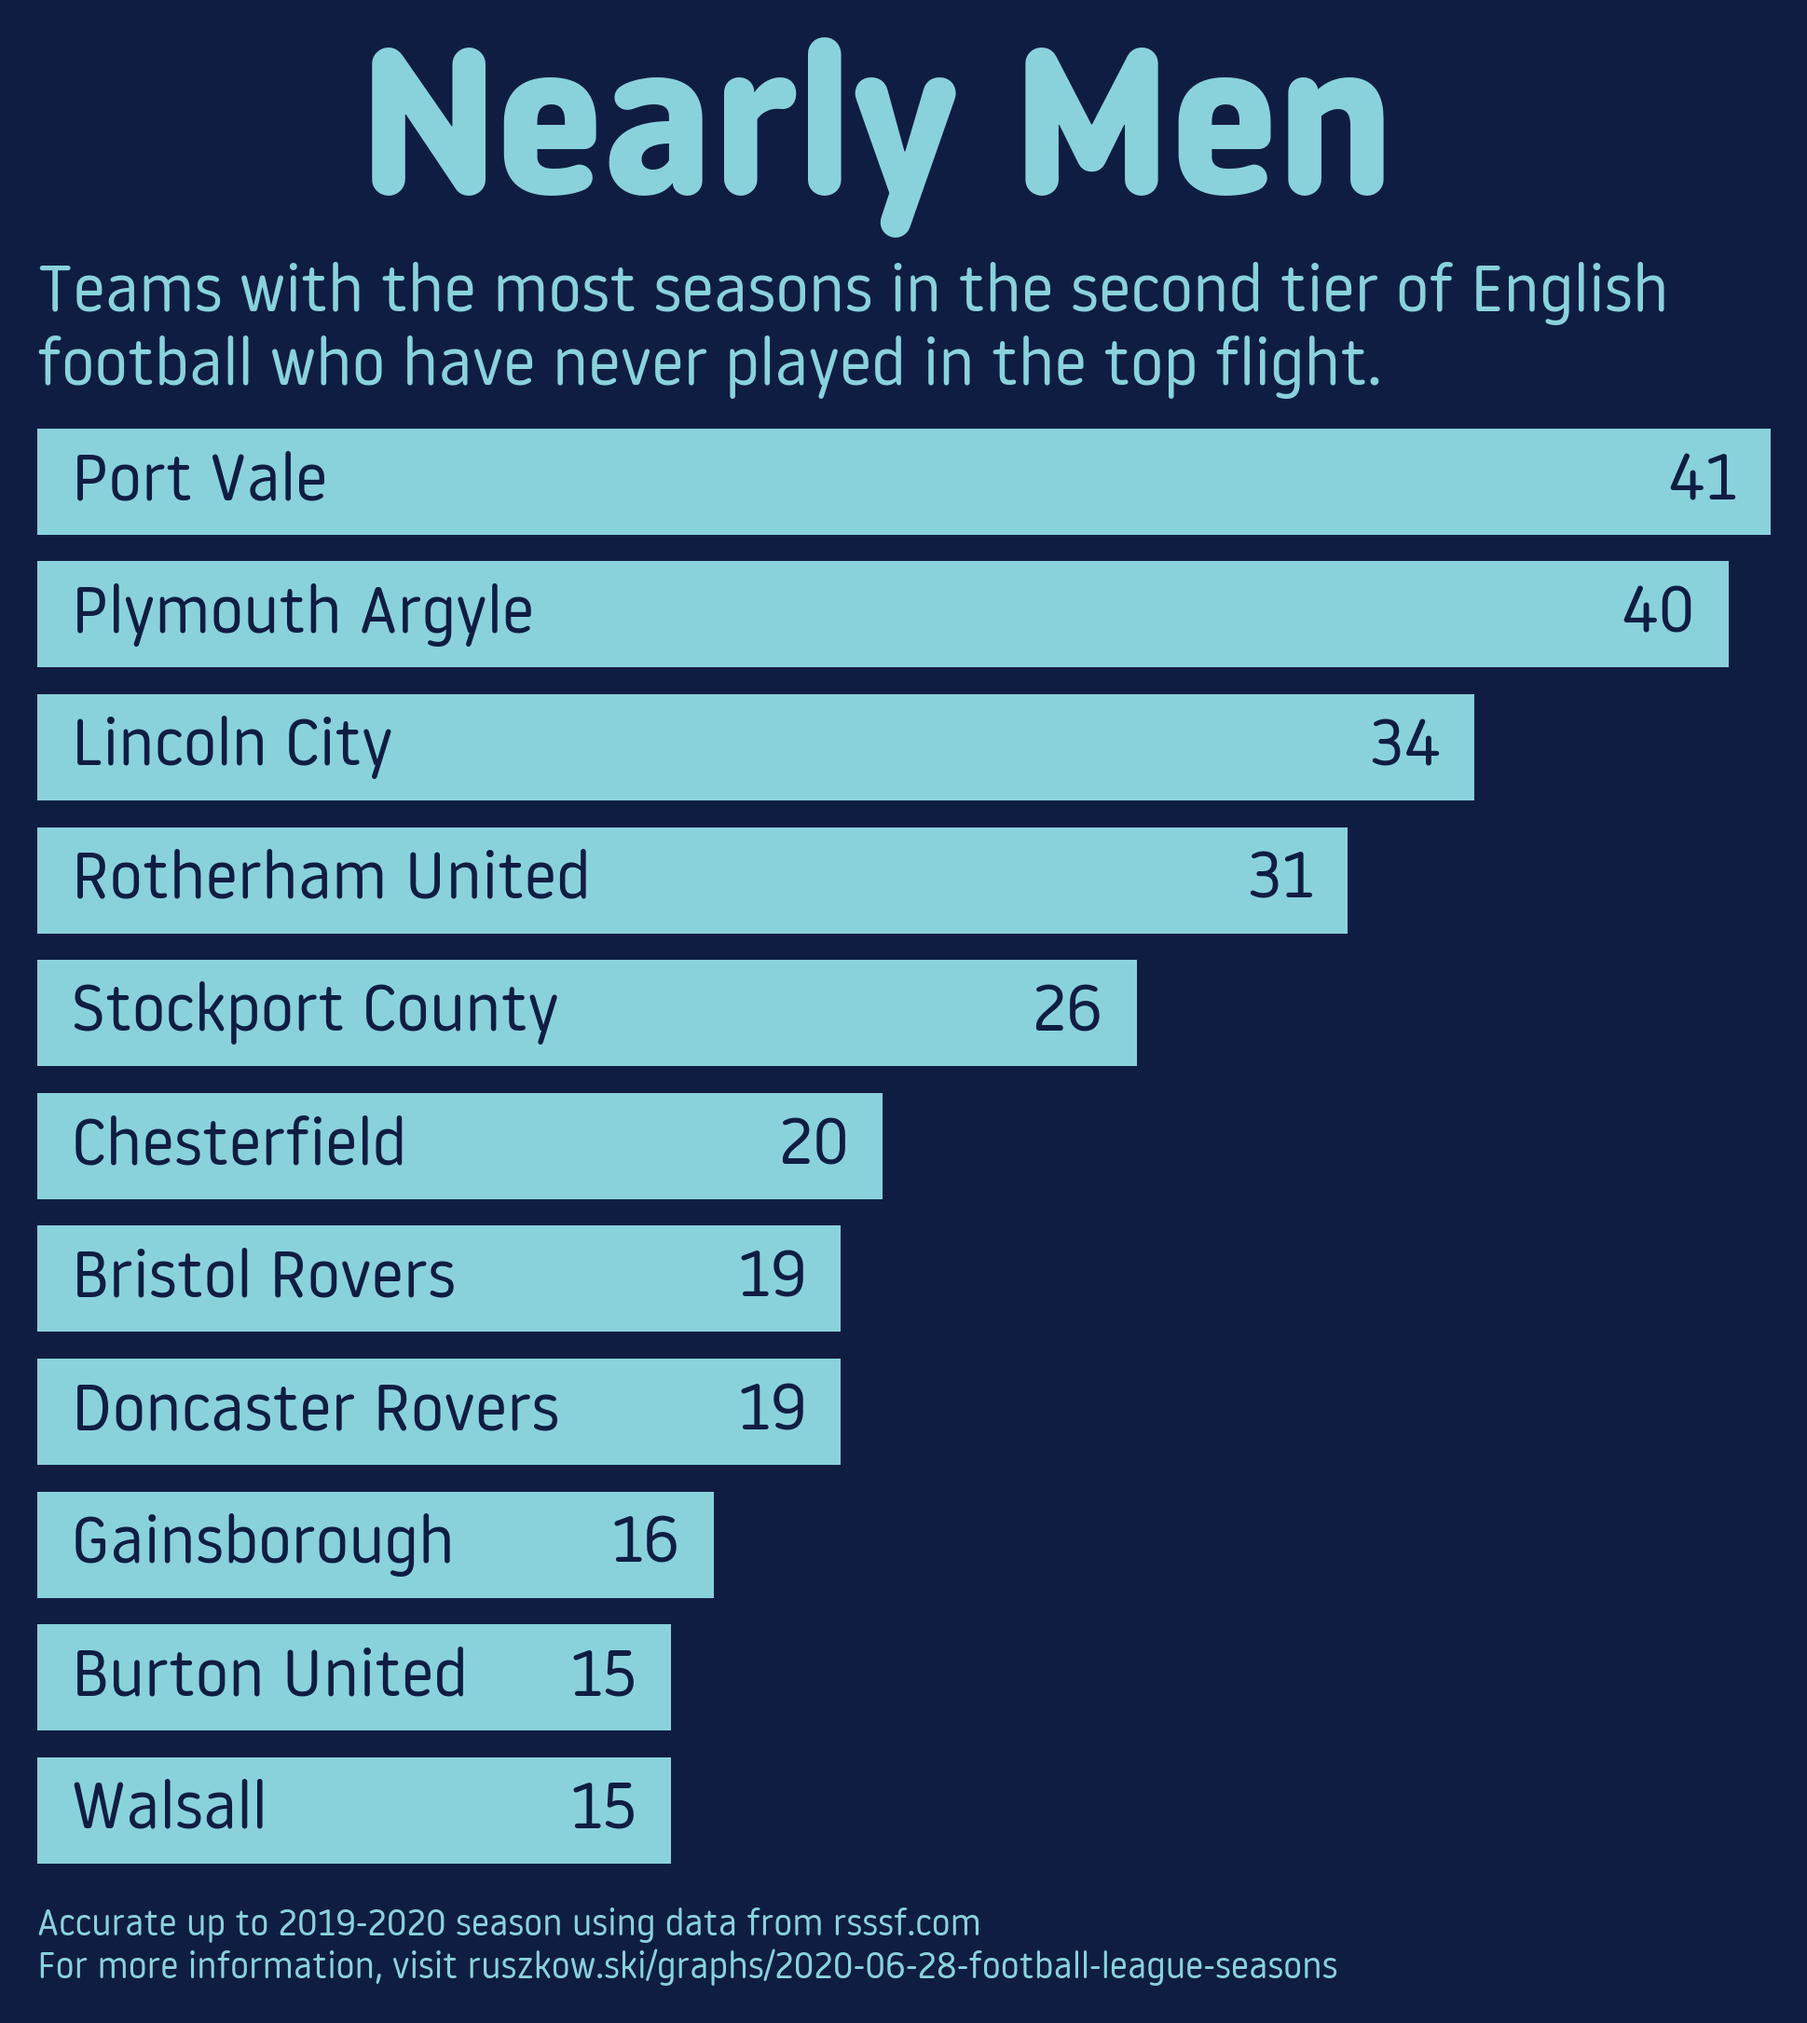
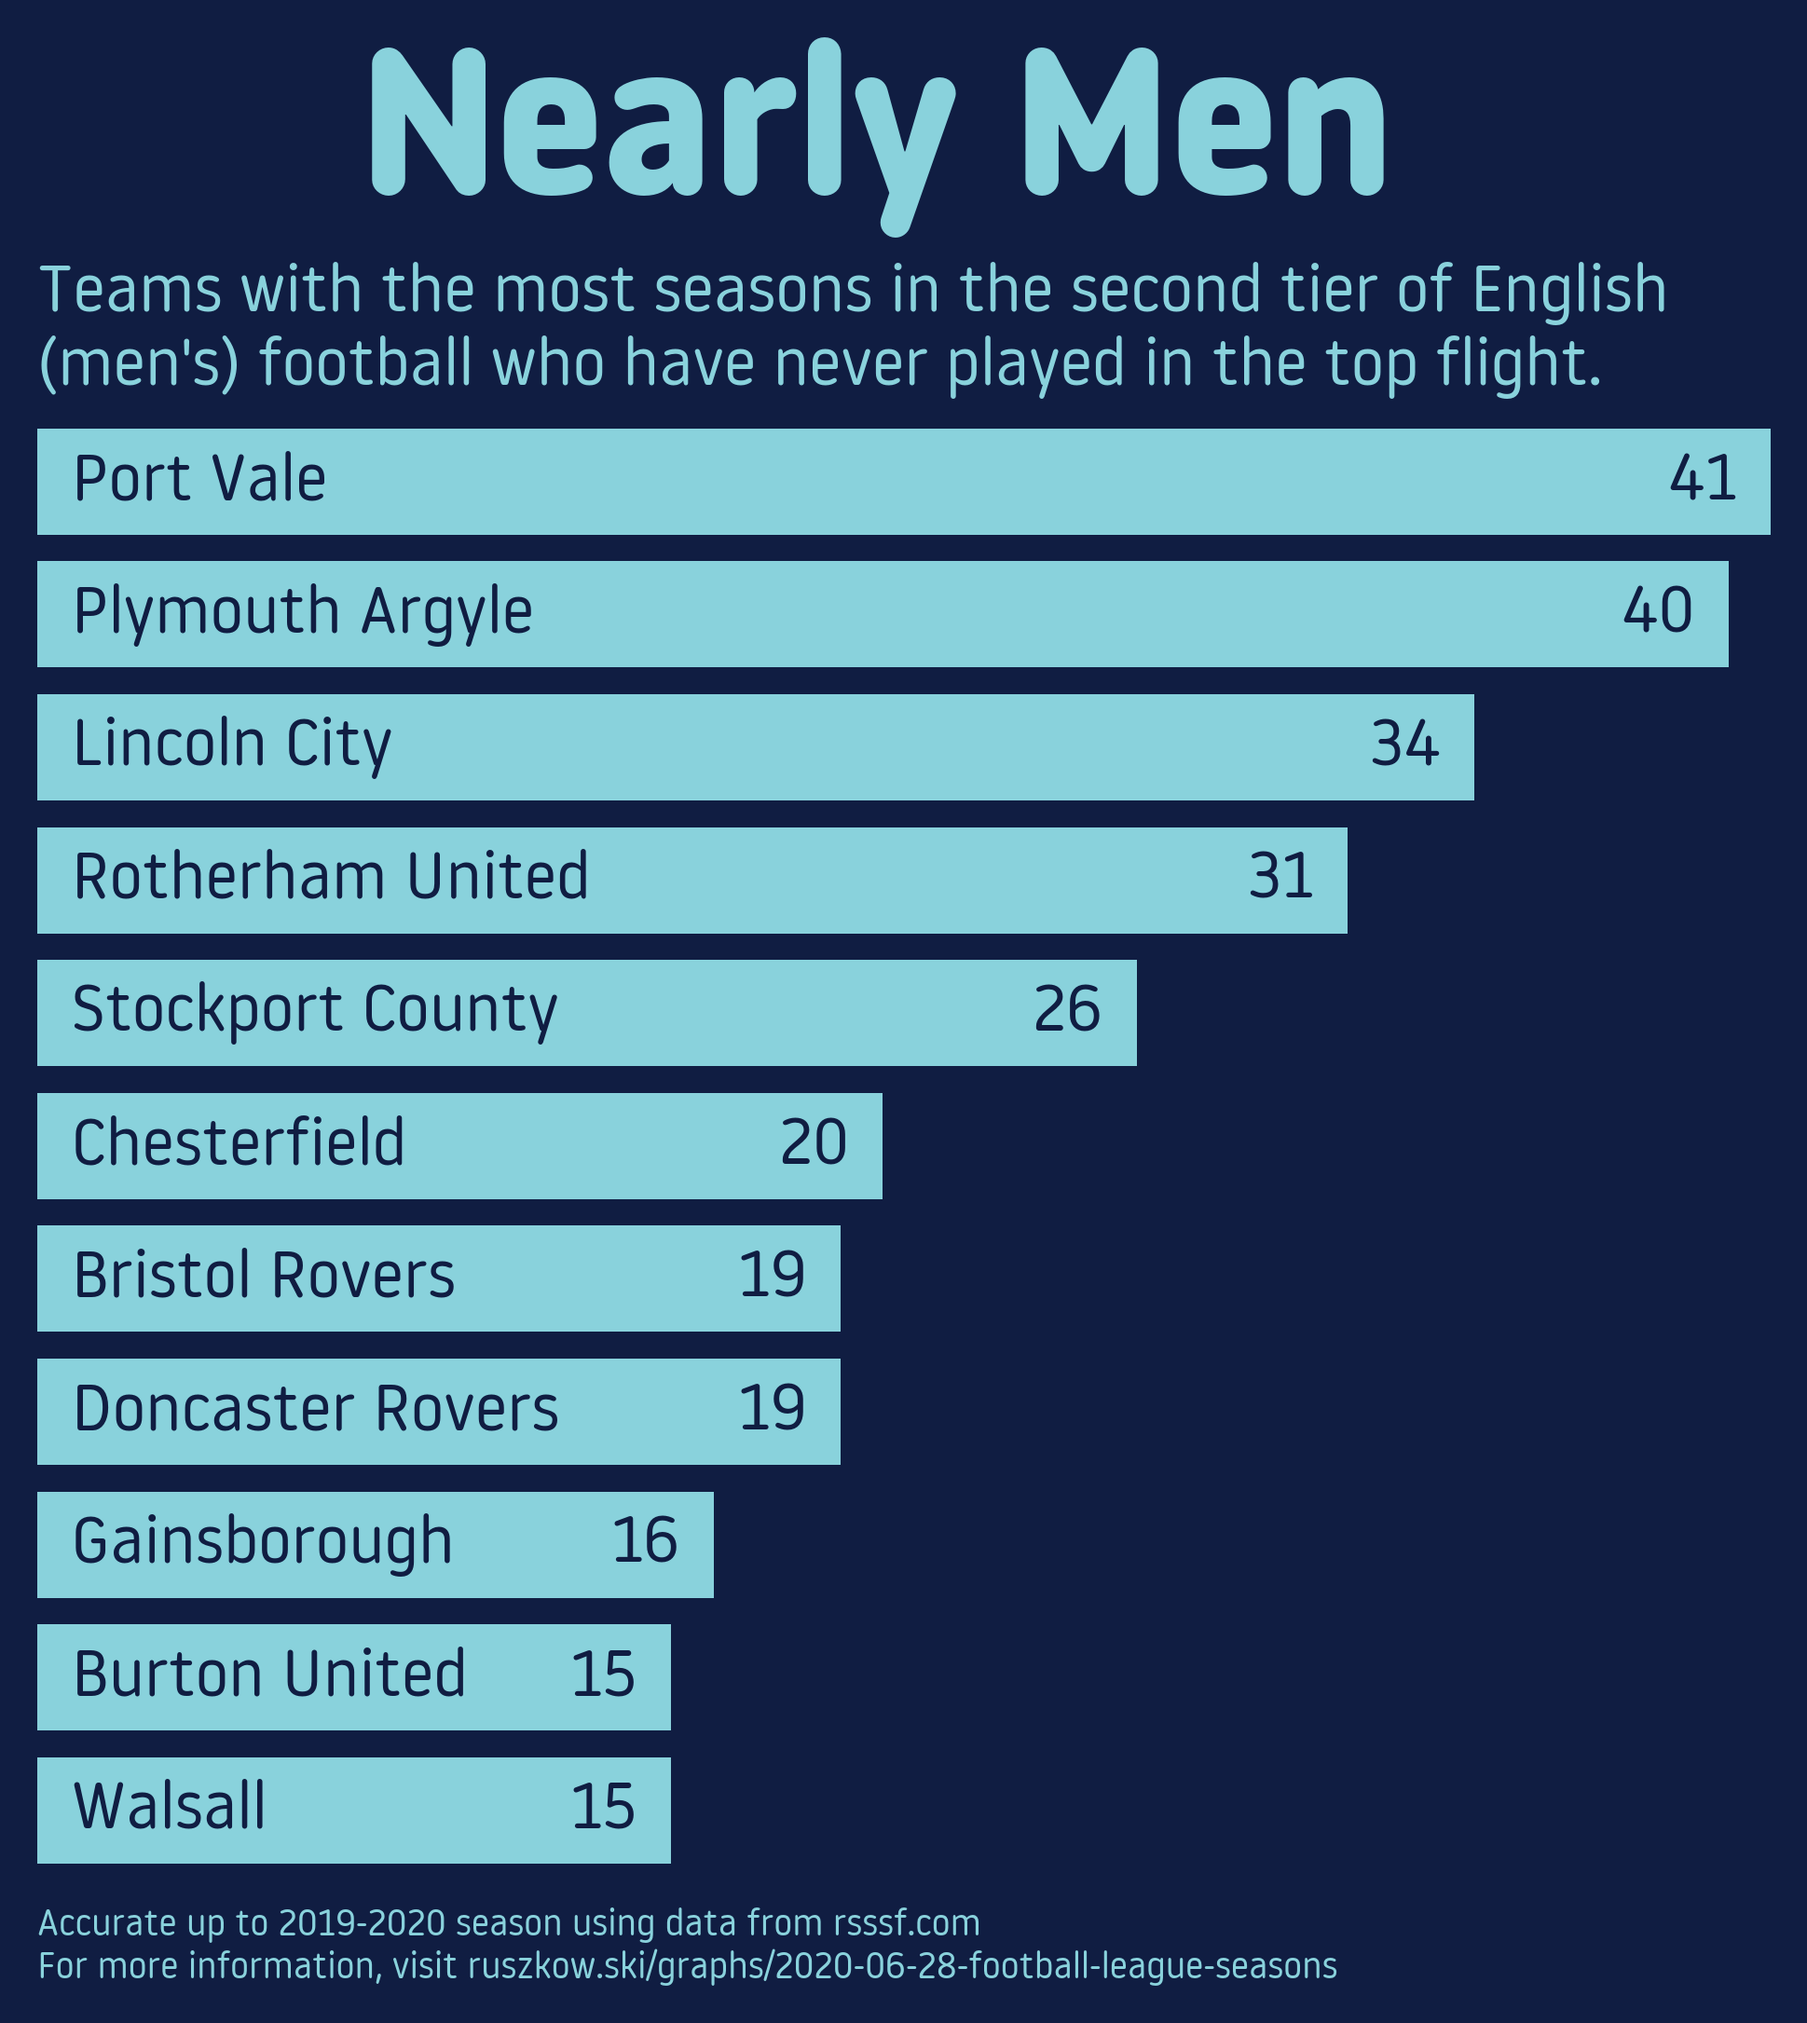
Update football league graphs

Changed region(s): [[0.0309, 0.1543, 0.8664, 0.216]]

diff --git a/football/league_standings/draw_graphs.py b/football/league_standings/draw_graphs.py
@@ -14,7 +14,7 @@ plt.rcParams['font.family'] = 'sans-serif'
 plt.rcParams['font.sans-serif'] = 'Noway Round'
 plt.rcParams['font.weight'] = 'regular'
 
-df = pd.read_csv(cur_dir / 'Tier Seasons.csv')
+df = pd.read_csv(data_dir / 'Tier Seasons.csv')
 
 # Get the outsiders
 outsiders = df[df['Highest Level'].ne(1)]
@@ -57,7 +57,7 @@ ax.set_axis_off()
 
 plt.suptitle('Outsiders', weight='bold', size=80, c=light_blue, y=1.08)
 ax.set_title(
-    'Teams with the most seasons in the English Football League\nwho have never played in the top flight.',
+    'Teams with the most seasons in the English (men\'s) Football\nLeague who have never played in the top flight.',
     c=light_blue, weight='regular', size=25, y=1.02, loc='left'
 )
 
@@ -112,7 +112,7 @@ ax.set_facecolor('#101D42')
 
 plt.suptitle('Nearly Men', weight='bold', size=80, c=light_blue, y=1.09)
 ax.set_title(
-    'Teams with the most seasons in the second tier of English\nfootball who have never played in the top flight.',
+    'Teams with the most seasons in the second tier of English\n(men\'s) football who have never played in the top flight.',
     c=light_blue, weight='regular', size=25, y=1.02, loc='left'
 )
 
